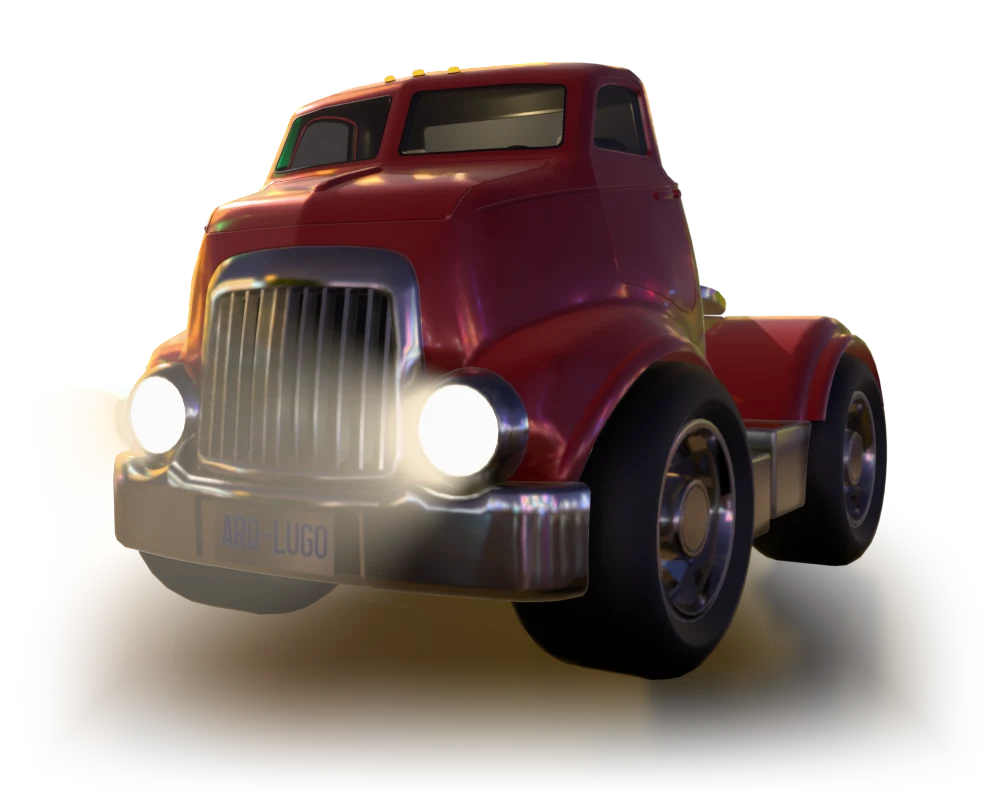
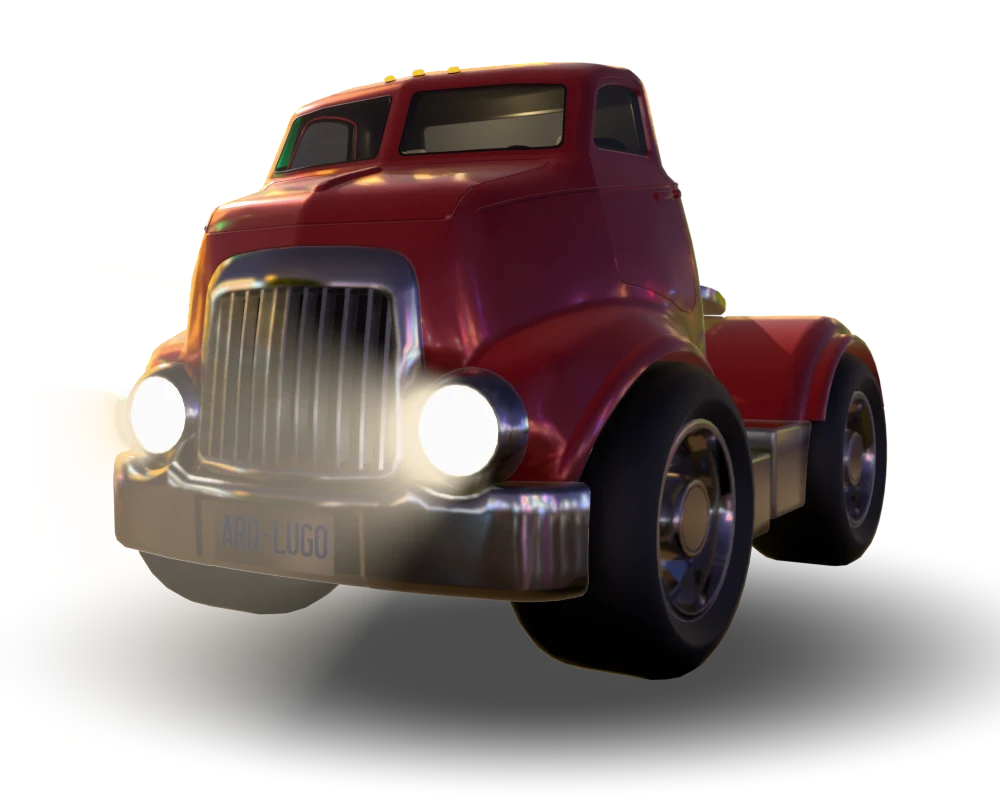
Home page truck: a dark feathered disk in place of the floor

Changed region(s): [[0.062, 0.6875, 0.868, 0.9688], [0.868, 0.7188, 1.0, 0.9062]]

diff --git a/truck.js b/truck.js
@@ -4,12 +4,11 @@
 //
 // The truck is rendered in Blender as layers (truck/*.webp, made by tools/truck): the truck with
 // white paint and with black paint, the door at more angles, the front wheels at many steering
-// angles, the ground under it (its shadow, and the truck's reflection) and the light the headlights
-// add. They are linear light one stop down; this script composes them in linear light (a paint color
-// is black paint plus the color times the difference) and puts the stop back, so any color, the
-// lights, the door and the wheels all come out as Blender would render them. The door and the
-// wheels show the frame nearest, never a blend. Squash and lean are a 2D squash and slant of the
-// truck; the ground stays put under it.
+// angles and the light the headlights add. They are linear light one stop down; this script
+// composes them in linear light (a paint color is black paint plus the color times the difference)
+// and puts the stop back, so any color, the lights, the door and the wheels all come out as Blender
+// would render them. The door and the wheels show the frame nearest, never a blend. Squash and lean
+// are a 2D squash and slant of the truck; the dark disk it stands on stays put under it.
 //
 // The buttons are drawn as Kneady draws its own (Kneady's draw.py, _draw_buttons): a dark circle
 // edged in the region's color, its icon in a lighter shade of that color with a dark edge, filled
@@ -90,7 +89,7 @@
     }
     return { p, a, w, h };
   }
-  // the truck, its ground and its lights decoded; the door's and the wheels' many frames kept as
+  // the truck and its lights decoded; the door's and the wheels' many frames kept as
   // bytes (a quarter of the memory), decoded at the pixels a frame covers
   const L = { doorA: [], doorB: [], wheels: [] };
 
@@ -188,27 +187,27 @@
     composed.getContext('2d').putImageData(cImg, 0, 0);
     tint.getContext('2d').putImageData(tImg, 0, 0);
     outlineFor();
-    composeGround();
   }
 
-  // The ground: the floor round the truck, its shadow and the truck's reflection in it, which takes
-  // the paint's color. It stays put while the truck squashes and leans over it. Composed again only
-  // when the color changes; the door, the wheels and the lights leave it be.
-  let groundWork = null, groundCanvas = null, gImg = null, groundKey = '';
-  function composeGround() {
-    if (!L.gA || !groundCanvas) return;
-    const key = [S.hue, S.sat, S.val].join();
-    if (key === groundKey) return;
-    groundKey = key;
-    const [cr, cg, cb] = hsv(S.hue, S.sat, S.val);
-    const gw = groundWork, out = gImg.data, scale = M.scale, A = L.gA, B = L.gB;
-    for (let i = 0; i < gw.w * gw.h; i++) {
-      const r = B.p[3 * i] + cr * (A.p[3 * i] - B.p[3 * i]);
-      const g = B.p[3 * i + 1] + cg * (A.p[3 * i + 1] - B.p[3 * i + 1]);
-      const b = B.p[3 * i + 2] + cb * (A.p[3 * i + 2] - B.p[3 * i + 2]);
-      put(out, 4 * i, r, g, b, A.a[i], scale);
+  // The disk the truck stands on: a circle on the ground round it, as the camera sees it (truck.json's
+  // disk, from tools/truck), black, `dark` out to `core` of its radius, feathered from there to
+  // nothing at its edge (most of it is behind the truck, so the feather starts early). Greg, 22
+  // November 2026: the floor "needs to just be a disk with very feathered edges that's darker than the
+  // page background", in place of the rendered floor with its orange and the truck's reflection.
+  let diskCanvas = null;
+  function makeDisk() {
+    const d = M.disk, c = document.createElement('canvas');
+    c.width = canvas.width; c.height = canvas.height;
+    const g = c.getContext('2d');
+    g.translate(OX + d.cx, OY + d.cy); g.scale(1, d.ry / d.rx);
+    const grad = g.createRadialGradient(0, 0, 0, 0, 0, d.rx);
+    for (let i = 0; i <= 16; i++) {                    // as pack_web.py draws it on the poster
+      const r = d.core + (1 - d.core) * i / 16, t = i / 16;
+      grad.addColorStop(r, `rgba(0,0,0,${(d.dark * (1 - t * t * (3 - 2 * t))).toFixed(4)})`);
     }
-    groundCanvas.getContext('2d').putImageData(gImg, 0, 0);
+    g.fillStyle = grad;
+    g.beginPath(); g.arc(0, 0, d.rx, 0, 2 * Math.PI); g.fill();
+    diskCanvas = c;
   }
   // the outline: the truck's shape grown by the band, less the shape itself
   const MARGIN = 16;
@@ -247,8 +246,8 @@
     const G = ground(), [sx, sy] = squash();
     ctx.setTransform(1, 0, 0, 1, 0, 0);
     ctx.clearRect(0, 0, canvas.width, canvas.height);
-    // the ground, still, under the truck
-    if (groundCanvas) ctx.drawImage(groundCanvas, OX + groundWork.x, OY + groundWork.y);
+    // the disk, still, under the truck
+    if (diskCanvas) ctx.drawImage(diskCanvas, 0, 0);
     ctx.setTransform(sx, 0, -S.lean, sy, OX + G.x - sx * G.x + S.lean * G.y, OY + G.y - sy * G.y);
     ctx.drawImage(composed, work.x, work.y);
     if (active && !drag && outline) ctx.drawImage(outline, work.x - MARGIN, work.y - MARGIN);
@@ -509,7 +508,7 @@
   fetch(ROOT + 'truck.json' + VERSION).then(r => r.json()).then(async m => {
     M = m; [W, H] = m.size;
     const doorFrames = m.door.frames, wheelFrames = m.wheels.frames;   // before M (which is m) swaps these for rects
-    M.door = rect(m.door.rect); M.wheels = rect(m.wheels.rect); M.ground = rect(m.ground.rect); M.lights = rect(m.lights.rect);
+    M.door = rect(m.door.rect); M.wheels = rect(m.wheels.rect); M.lights = rect(m.lights.rect);
     M.door.frames = doorFrames; M.wheels.frames = wheelFrames;
     S.hue = m.paint[0]; S.sat = m.paint[1]; S.val = m.paint[2];
     OX = Math.round(W * PAD); OY = Math.round(H * PAD);
@@ -526,13 +525,10 @@
       tImg.data[4 * i] = REGION[0] * 255; tImg.data[4 * i + 1] = REGION[1] * 255; tImg.data[4 * i + 2] = REGION[2] * 255;
     }
     mask = new Float32Array(work.w * work.h);
-    groundWork = M.ground;
-    groundCanvas = document.createElement('canvas'); groundCanvas.width = groundWork.w; groundCanvas.height = groundWork.h;
-    gImg = new ImageData(groundWork.w, groundWork.h);
+    makeDisk();
     const mid = (M.wheels.frames - 1) / 2;
-    const first = await Promise.all(['base_A', 'base_B', 'wheels_' + mid, 'lights', 'ground_A', 'ground_B'].map(image));
+    const first = await Promise.all(['base_A', 'base_B', 'wheels_' + mid, 'lights'].map(image));
     L.A = decode(first[0]); L.B = decode(first[1]); L.wheels[mid] = pixels(first[2]); L.lights = decode(first[3], true);
-    L.gA = decode(first[4]); L.gB = decode(first[5]);
     resize(); compose(); draw();
     stage.classList.add('is-ready');
     setHint(hintFor());

diff --git a/index.html b/index.html
@@ -15,7 +15,7 @@
 <link rel="preconnect" href="https://fonts.googleapis.com">
 <link rel="preconnect" href="https://fonts.gstatic.com" crossorigin>
 <link href="https://fonts.googleapis.com/css2?family=Instrument+Sans:wght@400;500;600;700&display=swap" rel="stylesheet">
-<link rel="stylesheet" href="style.css?v=943611">
+<link rel="stylesheet" href="style.css?v=943612">
 </head>
 <body>
 <div class="wrap">
@@ -41,7 +41,7 @@
         </div>
       </div>
       <div class="truck-stage" data-src="truck/" tabindex="0" role="application" aria-label="Kneady controls to try, on a truck: the arrow keys squash and lean it, Enter opens its menu, then 1 changes its color, 2 switches its lights, 3 opens its door and 4 turns its wheels">
-        <img class="truck-poster" src="truck/poster.webp?v=943611" alt="A red cartoon truck with its headlights on" width="1000" height="800">
+        <img class="truck-poster" src="truck/poster.webp?v=943612" alt="A red cartoon truck with its headlights on" width="1000" height="800">
         <canvas aria-hidden="true"></canvas>
         <svg aria-hidden="true"></svg>
         <span class="stage-hint">Hover over the truck</span>
@@ -163,6 +163,6 @@
     </nav>
   </footer>
 </div>
-<script src="truck.js?v=943611"></script>
+<script src="truck.js?v=943612"></script>
 </body>
 </html>

diff --git a/docs/guide/index.html b/docs/guide/index.html
@@ -12,8 +12,8 @@
 <link href="https://fonts.googleapis.com" rel="preconnect"/>
 <link crossorigin="" href="https://fonts.gstatic.com" rel="preconnect"/>
 <link href="https://fonts.googleapis.com/css2?family=Instrument+Sans:wght@400;500;600;700&amp;display=swap" rel="stylesheet"/>
-<link rel="stylesheet" href="/style.css?v=943611">
-<script src="/docs/docs.js?v=943611" defer></script>
+<link rel="stylesheet" href="/style.css?v=943612">
+<script src="/docs/docs.js?v=943612" defer></script>
 </head>
 <body class="docs">
 <!-- Made by tools/build_docs.py from the Kneady repository. Edit the source and build again. -->

diff --git a/docs/index.html b/docs/index.html
@@ -12,8 +12,8 @@
 <link href="https://fonts.googleapis.com" rel="preconnect"/>
 <link crossorigin="" href="https://fonts.gstatic.com" rel="preconnect"/>
 <link href="https://fonts.googleapis.com/css2?family=Instrument+Sans:wght@400;500;600;700&amp;display=swap" rel="stylesheet"/>
-<link rel="stylesheet" href="/style.css?v=943611">
-<script src="/docs/docs.js?v=943611" defer></script>
+<link rel="stylesheet" href="/style.css?v=943612">
+<script src="/docs/docs.js?v=943612" defer></script>
 </head>
 <body class="docs">
 <!-- Made by tools/build_docs.py from the Kneady repository. Edit the source and build again. -->

diff --git a/docs/writing-a-tutorial/index.html b/docs/writing-a-tutorial/index.html
@@ -12,8 +12,8 @@
 <link href="https://fonts.googleapis.com" rel="preconnect"/>
 <link crossorigin="" href="https://fonts.gstatic.com" rel="preconnect"/>
 <link href="https://fonts.googleapis.com/css2?family=Instrument+Sans:wght@400;500;600;700&amp;display=swap" rel="stylesheet"/>
-<link rel="stylesheet" href="/style.css?v=943611">
-<script src="/docs/docs.js?v=943611" defer></script>
+<link rel="stylesheet" href="/style.css?v=943612">
+<script src="/docs/docs.js?v=943612" defer></script>
 </head>
 <body class="docs">
 <!-- Made by tools/build_docs.py from the Kneady repository. Edit the source and build again. -->

diff --git a/404.html b/404.html
@@ -12,7 +12,7 @@
 <link rel="preconnect" href="https://fonts.googleapis.com">
 <link rel="preconnect" href="https://fonts.gstatic.com" crossorigin>
 <link href="https://fonts.googleapis.com/css2?family=Instrument+Sans:wght@400;500;600;700&display=swap" rel="stylesheet">
-<link rel="stylesheet" href="style.css?v=943611">
+<link rel="stylesheet" href="style.css?v=943612">
 </head>
 <body>
 <div class="wrap">

diff --git a/made.html b/made.html
@@ -12,7 +12,7 @@
 <link rel="preconnect" href="https://fonts.googleapis.com">
 <link rel="preconnect" href="https://fonts.gstatic.com" crossorigin>
 <link href="https://fonts.googleapis.com/css2?family=Instrument+Sans:wght@400;500;600;700&display=swap" rel="stylesheet">
-<link rel="stylesheet" href="style.css?v=943611">
+<link rel="stylesheet" href="style.css?v=943612">
 </head>
 <body>
 <div class="wrap">

diff --git a/support.html b/support.html
@@ -12,7 +12,7 @@
 <link rel="preconnect" href="https://fonts.googleapis.com">
 <link rel="preconnect" href="https://fonts.gstatic.com" crossorigin>
 <link href="https://fonts.googleapis.com/css2?family=Instrument+Sans:wght@400;500;600;700&display=swap" rel="stylesheet">
-<link rel="stylesheet" href="style.css?v=943611">
+<link rel="stylesheet" href="style.css?v=943612">
 </head>
 <body>
 <div class="wrap">

diff --git a/tools/truck/pack_web.py b/tools/truck/pack_web.py
@@ -9,13 +9,11 @@ straight alpha; the page (truck.js) decodes them, works in linear light and puts
                            ground (so its chrome reflects the floor), its shape from the one without
   door_A_k, door_B_k       k = 1..frames: the door's area only, at that much open
   wheels_k                 k = 0..frames-1: the front wheels' area, full left to full right
-  ground_A, ground_B       the ground: the render on the ground, less the truck. The page draws it
-                           still while the truck squashes and leans over it. What the truck hides is
-                           filled in from round it, for when a squash or a lean shows it
-  lights                   the light the headlights add, on the truck, in the air and on the floor
+  lights                  the light the headlights add, on the truck, in the air and on the floor
                            (opaque: black is none); the page moves it with the truck
   poster.webp              the truck as it first shows, for a browser without JavaScript
-  truck.json               where each crop goes, the frame counts, the truck's middle and ground
+  truck.json               where each crop goes, the frame counts, the truck's middle and ground,
+                           and the dark disk the page draws under it (from render_web.py's disk.json)
 """
 import bpy, sys, os, json, glob, colorsys
 import numpy as np
@@ -25,7 +23,7 @@ SRC, DST = argv[0], argv[1]
 os.makedirs(DST, exist_ok=True)
 THRESH = 1.5 / 255.0
 QUALITY = 88
-FADE = 150.0                     # the ground and the beams fade out this far from the render's edges
+FADE = 150.0                     # the beams fade out this far from the render's edges
 PAINT = (0.0, 1.0, 0.873)        # the color the truck starts in: hue, saturation, value (the scene's red)
 SCALE = 2.0                      # the stop the renders were taken down
 
@@ -83,26 +81,6 @@ def truck_only(on_ground, shape):
     out = on_ground.copy(); out[..., 3] = shape[..., 3]
     return out
 
-def fill(p, a, known, steps=600):
-    """Fill the unknown pixels of premultiplied color p and alpha a from their known neighbors,
-    a ring at a time."""
-    p = np.where(known[..., None], p, 0.0); a = np.where(known, a, 0.0); k = known.astype(np.float32)
-    for _ in range(steps):
-        todo = k < 0.5
-        if not todo.any():
-            break
-        def nb(x):
-            s = np.zeros_like(x)
-            s[1:] += x[:-1]; s[:-1] += x[1:]; s[:, 1:] += x[:, :-1]; s[:, :-1] += x[:, 1:]
-            return s
-        n = nb(k)
-        grow = todo & (n > 0)
-        if not grow.any():
-            break
-        sp = nb(p * k[..., None]); sa = nb(a * k)
-        p[grow] = sp[grow] / n[grow][:, None]; a[grow] = sa[grow] / n[grow]; k[grow] = 1.0
-    return p, a
-
 frames_door = len(glob.glob(os.path.join(SRC, 'door_A_*.png'))) - 1
 frames_wheels = len(glob.glob(os.path.join(SRC, 'wheels_*.png')))
 sizes = {}
@@ -145,30 +123,22 @@ truck_rect = bbox(solid, pad=0)
 cx, cy = float(xs.mean()), float(ys.mean())
 ground_y = int(ys.max())
 
-# --- the ground: the render on the ground, less the truck ----------------------------------
+# --- the disk under the truck: where render_web.py found it (disk.json), how dark at its middle.
+# Greg, 22 November 2026: the floor "needs to just be a disk with very feathered edges that's darker
+# than the page background" - in place of the rendered floor, its orange and the reflection.
+# The page draws it (truck.js): black, `dark` out to `core` of its radius, feathered from there to
+# nothing at its edge. Most of it is behind the truck, so the feather starts early or it barely shows
 yy, xx = np.mgrid[0:H, 0:W]
 def ease(t):
     t = np.clip(t, 0.0, 1.0)
     return t * t * (3 - 2 * t)
 fade = ease(np.minimum(np.minimum(xx, W - 1 - xx), np.minimum(yy, H - 1 - yy)) / FADE)
-# The floor runs to the horizon in Blender; on the page it shows only in an oval round where the
-# wheels meet it, POOL of the frame across and up, so it reads as a pool of floor under the truck,
-# its shadow and reflection in it, with no far edge
-POOL = (0.56, 0.32)
-d = np.sqrt(((xx - cx) / (POOL[0] * W)) ** 2 + ((yy - ground_y) / (POOL[1] * H)) ** 2)
-pool = 1.0 - ease((d - 0.35) / 0.65)
-known = a_t < 0.98
-a_g = np.clip((GA[..., 3] - a_t) / np.maximum(1.0 - a_t, 1e-4), 0.0, 1.0)
-ground = {}
-for name, img in (('A', GA), ('B', GB)):
-    p = to_lin(img[..., :3]) * a_g[..., None]                 # its colors where the truck isn't
-    p, ag = fill(p, a_g, known)
-    keep = (fade * pool)[..., None]
-    ground[name] = (p * keep, ag * keep[..., 0])
-ground_rect = bbox(ground['A'][1] > THRESH)
-for name, (p, ag) in ground.items():
-    straight = np.where(ag[..., None] > 1e-4, p / np.maximum(ag[..., None], 1e-4), 0.0)
-    sizes['ground_' + name] = save(crop(np.concatenate([to_enc(straight), ag[..., None]], -1), ground_rect), 'ground_' + name)
+with open(os.path.join(SRC, 'disk.json')) as f:
+    disk = json.load(f)
+disk['dark'], disk['core'] = 0.7, 0.3
+def disk_alpha():
+    r = np.sqrt(((xx - disk['cx']) / disk['rx']) ** 2 + ((yy - disk['cy']) / disk['ry']) ** 2)
+    return disk['dark'] * (1.0 - ease((r - disk['core']) / (1.0 - disk['core'])))
 
 # --- the lights: what the lights-on render adds. All of it goes with the truck, glow and beams and
 # the pools they throw on the floor: in the still ground layer, the glow round a lamp stayed behind
@@ -188,16 +158,14 @@ def shoulder(c):
     return (c * k) * (1 - g) + new * g
 
 paint = np.array(colorsys.hsv_to_rgb(*PAINT), dtype=np.float32)   # Blender's HSV node: linear values
-gp = ground['B'][0] + paint * (ground['A'][0] - ground['B'][0])
-ga = ground['A'][1]
 tp = premul(B) + paint * (premul(A) - premul(B)); ta = a_t
 wp, wa = premul(wheels[mid]), wheels[mid][..., 3]
 tp = wp + tp * (1 - wa[..., None]); ta = wa + ta * (1 - wa)
 tp = tp + L
-color = SCALE * (tp + gp * (1 - ta[..., None]))
-alpha = ta + ga * (1 - ta)
+color = SCALE * tp
 glow = np.clip(color.max(-1), 0.0, 1.0)
-alpha = np.maximum(alpha, glow)
+alpha = np.maximum(ta, glow)
+alpha = alpha + disk_alpha() * (1 - alpha)                       # the disk, black, under it all
 color = shoulder(color)
 straight = np.where(alpha[..., None] > 1e-4, color / np.maximum(alpha[..., None], 1e-4), 0.0)
 sizes['poster'] = save(np.concatenate([to_enc(straight), alpha[..., None]], -1), 'poster')
@@ -206,7 +174,7 @@ manifest = {
     'size': [W, H], 'scale': SCALE, 'paint': PAINT,
     'door': {'rect': door_rect, 'frames': frames_door},
     'wheels': {'rect': wheel_rect, 'frames': frames_wheels},
-    'ground': {'rect': ground_rect},
+    'disk': disk,
     'lights': {'rect': lights_rect},
     'truck': {'rect': truck_rect, 'center': [round(cx, 1), round(cy, 1)], 'ground': ground_y},
 }

diff --git a/tools/truck/render_web.py b/tools/truck/render_web.py
@@ -11,7 +11,8 @@ mode "layers":  every layer, linear light (Standard view, EXPOSURE stops down fo
   lights_on            door_B_0 with the lights on (the page takes door_B_0 from it: the lights' light)
   wheels_k             the front wheels alone (everything else a holdout), steered from full left
                        (k = 0) to full right (k = STEER_FRAMES - 1)
-pack_web.py turns them into the page's files.
+mode "disk":    only disk.json (where the disk under the truck goes), with no render.
+Every mode writes disk.json; pack_web.py reads it with the layers and turns them into the page's files.
 """
 import bpy, sys, os, math
 from mathutils import Vector, Matrix
@@ -83,6 +84,28 @@ def frame_truck():
     cam_data.shift_y = (0.5 + (min(ys) - 0.5) * k - FLOOR) / aspect
     print('framed: lens %.2f shift %.3f %.3f' % (cam_data.lens, cam_data.shift_x, cam_data.shift_y), flush=True)
 frame_truck()
+
+# --- the disk under the truck: a circle on the ground round its footprint, as the camera sees it.
+# Greg: the floor "needs to just be a disk with very feathered edges that's darker than the page
+# background". The page draws it (truck.js); this says where: its box in the render's pixels.
+DISK_CENTER, DISK_RADIUS = (0.0, -3.0), 3.6       # meters: between the axles, a little past the bumpers
+def disk_on_screen():
+    from bpy_extras.object_utils import world_to_camera_view
+    bpy.context.view_layer.update()
+    xs, ys = [], []
+    for i in range(96):
+        t = 2 * math.pi * i / 96
+        p = world_to_camera_view(scene, cam, Vector((DISK_CENTER[0] + DISK_RADIUS * math.cos(t),
+                                                     DISK_CENTER[1] + DISK_RADIUS * math.sin(t), 0.0)))
+        xs.append(p.x * r.resolution_x); ys.append((1.0 - p.y) * r.resolution_y)
+    return {'cx': round((min(xs) + max(xs)) / 2, 1), 'cy': round((min(ys) + max(ys)) / 2, 1),
+            'rx': round((max(xs) - min(xs)) / 2, 1), 'ry': round((max(ys) - min(ys)) / 2, 1)}
+import json
+with open(os.path.join(OUT, 'disk.json'), 'w') as f:
+    json.dump(disk_on_screen(), f)
+if MODE == 'disk':
+    print('disk', open(os.path.join(OUT, 'disk.json')).read(), flush=True)
+    sys.exit(0)
 r.image_settings.file_format = 'PNG'
 r.image_settings.color_mode = 'RGBA'
 r.image_settings.color_depth = '16'

diff --git a/tools/README.md b/tools/README.md
@@ -18,8 +18,11 @@ again. Edit `docs/docs.js` (the clip player) by hand; the build leaves it alone.
 The truck you can hover and drag on the home page (`truck.js`) is a set of
 renders in `truck/`: the truck with white and with black paint (so the page
 can recolor it), the door at 16 more angles, the front wheels at 17 steering
-angles (the page shows the nearest, never a blend of two), the floor under it
-with its shadow and reflection, and the light the headlights add. Remake them
+angles (the page shows the nearest, never a blend of two), and the light the
+headlights add. The page draws a dark, feathered disk under the truck itself,
+where `render_web.py` works out the ground round the truck would show
+(`DISK_CENTER`, `DISK_RADIUS`); how dark it is, and how far out it stays that
+dark before it fades, are `dark` and `core` in `pack_web.py`. Remake them
 after changing the truck in Blender. Rendering takes about two minutes. The page
 reads the frame counts and sizes from `truck/truck.json`, so it needs no change.
 
@@ -90,7 +93,7 @@ it):
    `git push`
    GitHub Pages updates the site a minute or two later.
 
-If you changed `style.css`, `clay.js` or `docs/docs.js`, run
+If you changed `style.css`, `truck.js` or `docs/docs.js`, run
 `python tools/bump_version.py` and then the build (step 2) again before you
 publish, so browsers load the new files.
 
